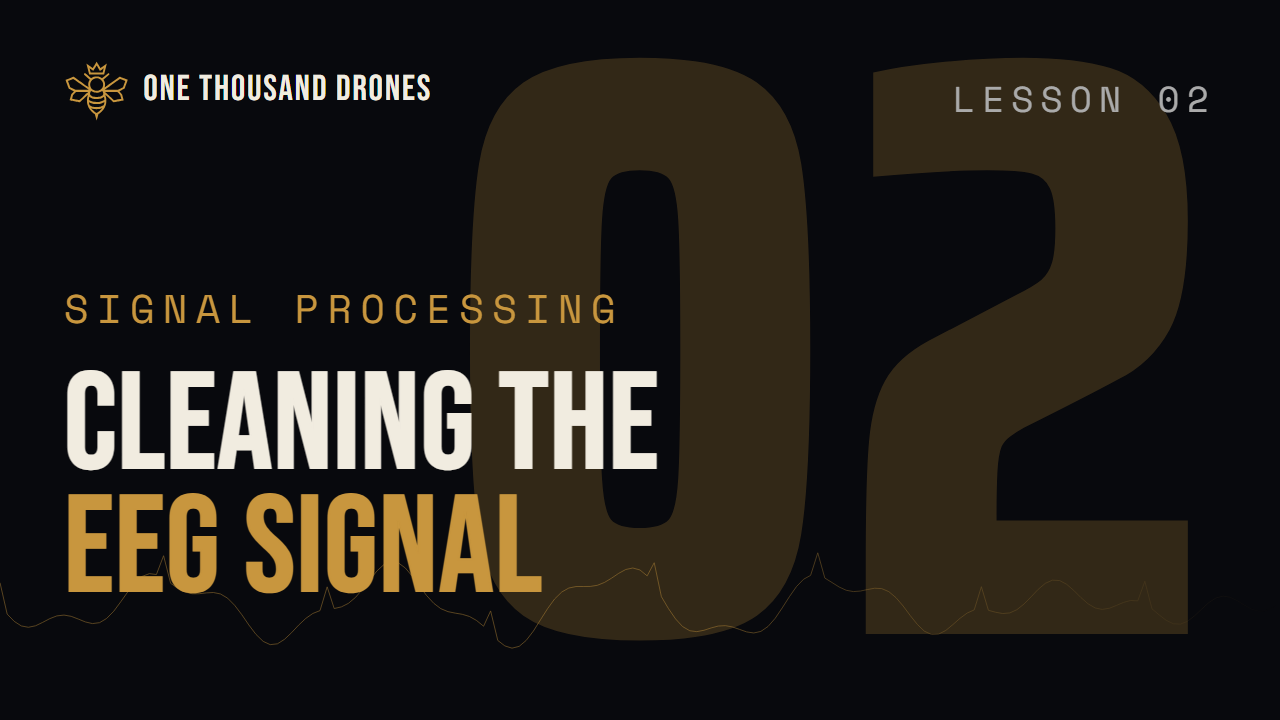
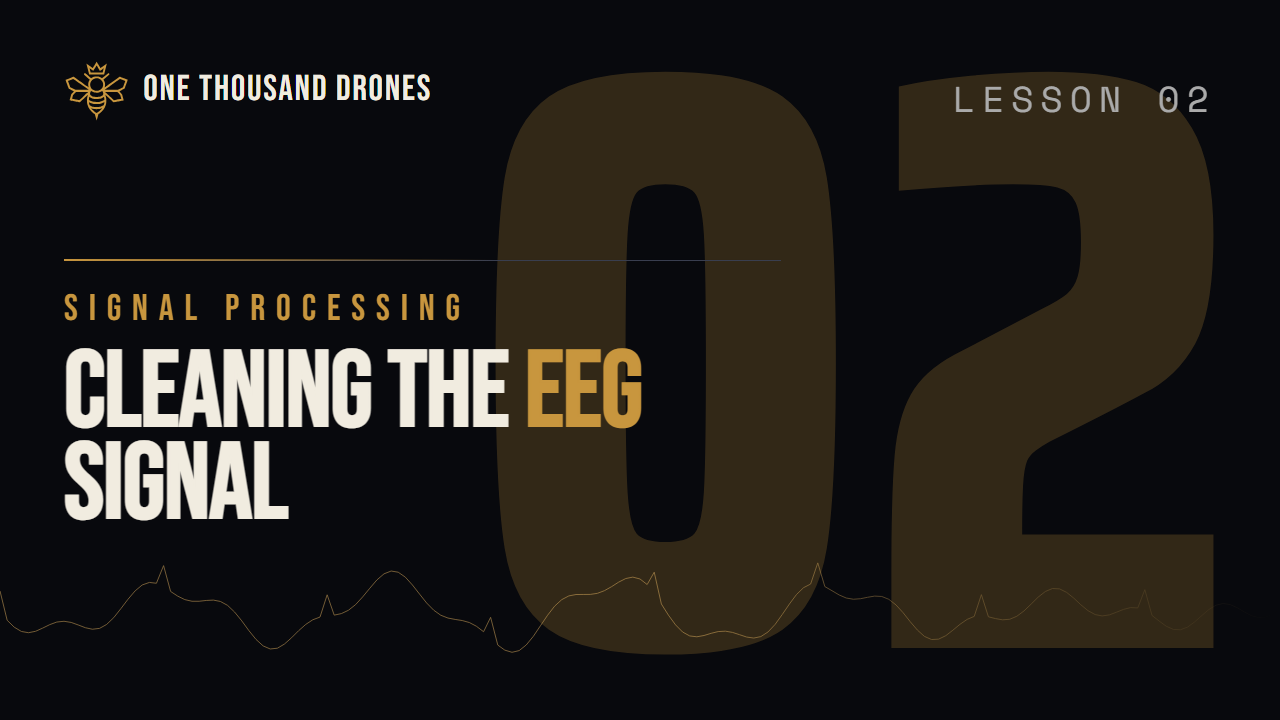
feat(brand): YouTube full-canvas channel art + academy-heading thumbnail
YouTube (2560x1440) now uses the full canvas via a new YouTubeArt component:
the academy-heading lockup in the safe band, a gold EEG channel + big bee across
the desktop band, and two signal-blue aux EEG channels in the TV-only bands
(multi-channel readout, TV view only) that fade like the main channel. Thumbnail
template rebuilt as the academy heading (gold rule, gold eyebrow tag, title with
ivory->gold alternation + hollow periods, giant faint number, EEG). Re-exported.

diff --git a/app/components/ThumbnailArt.tsx b/app/components/ThumbnailArt.tsx
@@ -1,15 +1,15 @@
-// Live YouTube-thumbnail template (the C8 layout): giant Saira episode number as
-// a bold backdrop, an EEG trace along the bottom, the ONE THOUSAND DRONES mark
-// top-left, a LESSON tag top-right, and the tag + two-line title lower-left. Swap
-// tag / num / title per video; the layout stays fixed so the channel reads as a
-// series. Same component that renders the media-kit preview and the export PNGs.
+// Live YouTube-thumbnail template — the academy-heading treatment (V1): gold
+// title-rule, a gold Bebas eyebrow (the tag), a big title with ivory→gold word
+// alternation + hollow .tdot periods, over a giant faint Saira episode number and
+// an EEG trace. Brand mark top-left, LESSON tag top-right. Swap tag / num / title
+// per video. Same component that renders the media-kit preview + export PNGs.
+import { Fragment } from 'react'
 import { BrandMark } from './BrandMark'
 
+const GOLD = '#c8963e', GOLDL = '#e8b865', BG = '#08090d', INK = '#f1ece0', MUT = '#aaaaaa', HAIR = '#3a3f50'
 const WORD = 'ONE THOUSAND DRONES'
-type Pal = { bg: string; ink: string; gold: string; goldD: string; muted: string }
-const DARK: Pal = { bg: '#08090d', ink: '#f1ece0', gold: '#c8963e', goldD: '#e8b865', muted: '#aaaaaa' }
-const IVORY: Pal = { bg: '#faf7f0', ink: '#14181f', gold: '#b5882e', goldD: '#8a6212', muted: '#6b7280' }
 const FILL = { position: 'absolute', inset: 0, width: '100%', height: '100%' } as const
+const FUNC = new Set(['a', 'an', 'the', 'to', 'of', 'and', 'or', 'for', 'in', 'on', 'at', 'by', 'as', 'it', 'is', 'with', 'from', 'into'])
 
 function wavePath() {
   const amp = 15, base = 50, freq = 0.2, N = 180
@@ -17,40 +17,46 @@ function wavePath() {
   for (let i = 0; i <= N; i++) { const x = (i * 100) / N, t = i * freq; let y = base + amp * Math.sin(t) * (0.5 + 0.5 * Math.sin(t * 0.11)) + amp * 0.3 * Math.sin(t * 2.7); if (i % 23 === 0) y -= amp * 0.65; d += `${i ? 'L' : 'M'}${x.toFixed(2)} ${y.toFixed(2)} ` }
   return d
 }
-
-export type ThumbnailProps = {
-  w?: number; h?: number; theme?: 'dark' | 'ivory'
-  tag: string; num: string; titleTop: string; titleAccent: string
+// content words alternate ivory→gold; periods rendered hollow (.tdot)
+function renderTitle(title: string, px: number) {
+  let c = 0
+  const dot: React.CSSProperties = { WebkitTextFillColor: 'transparent', WebkitTextStrokeWidth: `${px * 0.04}px`, WebkitTextStrokeColor: 'currentColor' }
+  const wrapDots = (s: string) => s.split(/(\.)/).map((p, j) => (p === '.' ? <span key={j} style={dot}>.</span> : <Fragment key={j}>{p}</Fragment>))
+  return title.split(/(\s+)/).map((tok, i) => {
+    if (tok.trim() === '') return <Fragment key={i}>{tok}</Fragment>
+    const m = tok.match(/^([^A-Za-z0-9]*)([A-Za-z0-9](?:.*[A-Za-z0-9])?)?([^A-Za-z0-9]*)$/)
+    const pre = m?.[1] ?? '', core = m?.[2] ?? '', post = m?.[3] ?? ''
+    const isFunc = FUNC.has(core.toLowerCase().replace(/[^a-z0-9]/g, ''))
+    const gold = core && !isFunc && ++c % 2 === 0
+    return <Fragment key={i}>{wrapDots(pre)}{core ? (gold ? <span style={{ color: GOLD }}>{core}</span> : core) : null}{wrapDots(post)}</Fragment>
+  })
 }
 
-/** The C8 thumbnail template at 16:9. `w`/`h` drive all sizing (default 1280×720). */
-export function ThumbnailArt({ w = 1280, h = 720, theme = 'dark', tag, num, titleTop, titleAccent }: ThumbnailProps) {
-  const p = theme === 'ivory' ? IVORY : DARK
+export type ThumbnailProps = { w?: number; h?: number; tag: string; num: string; title: string }
+
+/** The V1 thumbnail template at 16:9 (default 1280×720). Swap tag / num / title. */
+export function ThumbnailArt({ w = 1280, h = 720, tag, num, title }: ThumbnailProps) {
+  const titlePx = h * 0.15, ordPx = titlePx * 0.34, blockW = w * 0.56
   return (
-    <div style={{ position: 'relative', width: w, height: h, background: p.bg, overflow: 'hidden' }}>
+    <div style={{ position: 'relative', width: w, height: h, background: BG, overflow: 'hidden' }}>
       {/* giant number backdrop */}
-      <div style={{ position: 'absolute', right: w * 0.05, top: '48%', transform: 'translateY(-50%)' }}>
-        <span style={{ fontFamily: 'var(--font-numeral)', fontWeight: 800, fontSize: h * 1.15, lineHeight: 0.72, color: p.gold, opacity: 0.22, fontVariantNumeric: 'tabular-nums' }}>{num}</span>
+      <span aria-hidden style={{ position: 'absolute', right: w * 0.03, top: '50%', transform: 'translateY(-50%)', fontFamily: 'var(--font-numeral)', fontWeight: 800, fontSize: h * 1.15, color: GOLD, opacity: 0.22, lineHeight: 0.72, fontVariantNumeric: 'tabular-nums' }}>{num}</span>
+      {/* EEG bottom */}
+      <div aria-hidden style={{ position: 'absolute', left: 0, right: 0, bottom: 0, height: '30%', WebkitMaskImage: 'linear-gradient(to right,#000 55%,transparent 100%)', maskImage: 'linear-gradient(to right,#000 55%,transparent 100%)' }}>
+        <svg viewBox="0 0 100 100" preserveAspectRatio="none" style={FILL}><path d={wavePath()} fill="none" stroke={GOLDL} strokeWidth={0.8} opacity={0.6} vectorEffect="non-scaling-stroke" strokeLinejoin="round" /></svg>
       </div>
-      {/* EEG trace along the bottom */}
-      <div style={{ position: 'absolute', left: 0, right: 0, bottom: 0, height: '32%', WebkitMaskImage: 'linear-gradient(to right,#000 55%,transparent 100%)', maskImage: 'linear-gradient(to right,#000 55%,transparent 100%)' }}>
-        <svg viewBox="0 0 100 100" preserveAspectRatio="none" style={FILL}><path d={wavePath()} fill="none" stroke={p.gold} strokeWidth={0.7} opacity={0.6} vectorEffect="non-scaling-stroke" strokeLinejoin="round" /></svg>
-      </div>
-      {/* wordmark top-left */}
+      {/* brand top-left */}
       <div style={{ position: 'absolute', top: h * 0.08, left: w * 0.05, display: 'flex', alignItems: 'center', gap: h * 0.02 }}>
-        <div className="mk" style={{ width: h * 0.09, height: h * 0.09, color: p.gold }}><BrandMark /></div>
-        <span style={{ fontFamily: 'var(--font-display)', fontSize: h * 0.05, letterSpacing: '0.05em', color: p.ink }}>{WORD}</span>
+        <div className="mk" style={{ width: h * 0.09, height: h * 0.09, color: GOLD }}><BrandMark /></div>
+        <span style={{ fontFamily: 'var(--font-display)', fontSize: h * 0.05, letterSpacing: '0.05em', color: INK }}>{WORD}</span>
       </div>
       {/* lesson tag top-right */}
-      <div style={{ position: 'absolute', top: h * 0.1, right: w * 0.05 }}>
-        <span style={{ fontFamily: 'var(--font-mono)', fontSize: h * 0.05, letterSpacing: '0.2em', color: p.muted }}>LESSON {num}</span>
-      </div>
-      {/* tag + title lower-left */}
-      <div style={{ position: 'absolute', left: w * 0.05, bottom: h * 0.15, display: 'flex', flexDirection: 'column', gap: h * 0.04 }}>
-        <span style={{ fontFamily: 'var(--font-mono)', fontSize: h * 0.055, letterSpacing: '0.22em', textTransform: 'uppercase', color: theme === 'ivory' ? p.goldD : p.gold }}>{tag}</span>
-        <span style={{ fontFamily: 'var(--font-display)', fontSize: h * 0.19, lineHeight: 0.9, letterSpacing: '0.01em', color: p.ink, WebkitTextStroke: `${h * 0.19 * 0.014}px ${p.ink}` }}>
-          {titleTop}<br /><span style={{ color: p.gold, WebkitTextStroke: `${h * 0.19 * 0.014}px ${p.gold}` }}>{titleAccent}</span>
-        </span>
+      <span style={{ position: 'absolute', top: h * 0.1, right: w * 0.05, fontFamily: 'var(--font-mono)', fontSize: h * 0.05, letterSpacing: '0.2em', color: MUT }}>LESSON {num}</span>
+      {/* academy-heading lockup */}
+      <div style={{ position: 'absolute', left: w * 0.05, top: '52%', transform: 'translateY(-42%)', width: blockW, display: 'flex', flexDirection: 'column' }}>
+        <div style={{ position: 'relative', width: blockW, height: 1, background: HAIR, marginBottom: titlePx * 0.22 }}><div style={{ position: 'absolute', top: -1, left: 0, height: 2, width: '60%', background: `linear-gradient(90deg,${GOLD},transparent)` }} /></div>
+        <span style={{ fontFamily: 'var(--font-display)', fontSize: ordPx, letterSpacing: '0.3em', textTransform: 'uppercase', color: GOLD, marginBottom: titlePx * 0.14 }}>{tag}</span>
+        <span style={{ fontFamily: 'var(--font-display)', fontSize: titlePx, color: INK, lineHeight: 0.85, letterSpacing: '-0.01em', textTransform: 'uppercase', WebkitTextStroke: `${titlePx * 0.02}px currentColor`, textAlign: 'left' }}>{renderTitle(title, titlePx)}</span>
       </div>
     </div>
   )

diff --git a/app/components/YouTubeArt.tsx b/app/components/YouTubeArt.tsx
@@ -1,0 +1,51 @@
+// Live YouTube channel art (2560×1440) using the full canvas. The academy-heading
+// lockup sits in the safe band (1546×423); the main gold EEG channel + big bee
+// span the desktop band; two signal-blue aux EEG channels fill the TV-only bands
+// above/below (multi-channel readout, TV view only). All channels fade like the
+// main. Same component that produces the exported PNG (no drift).
+import { BrandMark } from './BrandMark'
+
+const GOLD = '#c8963e', GOLDL = '#e8b865', BLUE = '#4a8fff', BG = '#08090d', INK = '#f1ece0', HAIR = '#3a3f50'
+const FILL = { position: 'absolute', inset: 0, width: '100%', height: '100%' } as const
+
+function wavePath(phase: number) {
+  const amp = 15, base = 50, freq = 0.2, N = 220
+  let d = ''
+  for (let i = 0; i <= N; i++) { const x = (i * 100) / N, t = i * freq + phase; let y = base + amp * Math.sin(t) * (0.5 + 0.5 * Math.sin(t * 0.11)) + amp * 0.3 * Math.sin(t * 2.7); if (i % 23 === 0) y -= amp * 0.65; d += `${i ? 'L' : 'M'}${x.toFixed(2)} ${y.toFixed(2)} ` }
+  return d
+}
+function Channel({ color, op, phase, wpx }: { color: string; op: number; phase: number; wpx: number }) {
+  return <svg viewBox="0 0 100 100" preserveAspectRatio="none" style={FILL}><path d={wavePath(phase)} fill="none" stroke={color} strokeWidth={wpx} opacity={op} vectorEffect="non-scaling-stroke" strokeLinejoin="round" /></svg>
+}
+
+export function YouTubeArt({ w = 2560, h = 1440 }: { w?: number; h?: number }) {
+  const bandH = (h * 423) / 1440, bandTop = (h - bandH) / 2
+  const safeW = (w * 1546) / 2560
+  const blockW = safeW * 0.62
+  const blockLeft = (w - blockW) / 2 - safeW * 0.02
+  const heroPx = Math.min(bandH * 0.4, blockW / 6.1)
+  const ordPx = heroPx * 0.34
+  const beeH = h * 0.92, beeCx = w * 0.72
+  const eegRight = blockLeft
+  const auxPad = bandTop * 0.16
+  const auxFade = { WebkitMaskImage: 'linear-gradient(to right,#000 45%,transparent 72%)', maskImage: 'linear-gradient(to right,#000 45%,transparent 72%)' } as const
+  const mainFade = { WebkitMaskImage: `linear-gradient(to right,#000 ${(eegRight / w) * 100 - 10}%,transparent ${(eegRight / w) * 100}%)`, maskImage: `linear-gradient(to right,#000 ${(eegRight / w) * 100 - 10}%,transparent ${(eegRight / w) * 100}%)` } as const
+  const dot: React.CSSProperties = { WebkitTextFillColor: 'transparent', WebkitTextStrokeWidth: `${heroPx * 0.04}px`, WebkitTextStrokeColor: 'currentColor' }
+  return (
+    <div style={{ position: 'relative', width: w, height: h, background: BG, overflow: 'hidden' }}>
+      {/* aux EEG channels — TV-only bands */}
+      <div aria-hidden style={{ position: 'absolute', left: 0, right: 0, top: auxPad, height: bandTop - auxPad * 1.6, zIndex: 1, ...auxFade }}><Channel color={BLUE} op={0.4} phase={2.1} wpx={1.3} /></div>
+      <div aria-hidden style={{ position: 'absolute', left: 0, right: 0, top: bandTop + bandH + auxPad * 0.6, height: bandTop - auxPad * 1.6, zIndex: 1, ...auxFade }}><Channel color={BLUE} op={0.4} phase={4.3} wpx={1.3} /></div>
+      {/* big bee */}
+      <div aria-hidden className="mk" style={{ position: 'absolute', left: beeCx - beeH / 2, top: '50%', transform: 'translateY(-50%)', width: beeH, height: beeH, color: GOLD, opacity: 0.22, zIndex: 1 }}><BrandMark /></div>
+      {/* main channel */}
+      <div style={{ position: 'absolute', left: 0, right: 0, top: bandTop, height: bandH, zIndex: 2, ...mainFade }}><Channel color={GOLDL} op={1} phase={0} wpx={1.6} /></div>
+      {/* lockup */}
+      <div style={{ position: 'absolute', left: blockLeft, top: bandTop, height: bandH, width: blockW, zIndex: 3, display: 'flex', flexDirection: 'column', justifyContent: 'center' }}>
+        <div style={{ position: 'relative', width: blockW, height: 1, background: HAIR, marginBottom: heroPx * 0.22 }}><div style={{ position: 'absolute', top: -1, left: 0, height: 2, width: '60%', background: `linear-gradient(90deg,${GOLD},transparent)` }} /></div>
+        <span style={{ fontFamily: 'var(--font-display)', fontSize: ordPx, letterSpacing: '0.3em', textTransform: 'uppercase', color: GOLD, marginBottom: heroPx * 0.14 }}>ONE THOUSAND DRONES</span>
+        <span style={{ fontFamily: 'var(--font-display)', fontSize: heroPx, color: INK, lineHeight: 0.82, letterSpacing: '-0.01em', textTransform: 'uppercase', WebkitTextStroke: `${heroPx * 0.02}px currentColor` }}>ONE <span style={{ color: GOLD }}>MIND</span><span style={dot}>.</span><br />MANY <span style={{ color: GOLD }}>MACHINES</span><span style={dot}>.</span></span>
+      </div>
+    </div>
+  )
+}

diff --git a/app/brand/page.tsx b/app/brand/page.tsx
@@ -79,7 +79,6 @@ const ASSETS: { n: string; d: string; f: string }[] = [
   { n: 'YouTube thumbnail · sample 01', d: '1280 × 720', f: 'otd-thumbnail-lesson-01.png' },
   { n: 'YouTube thumbnail · sample 02', d: '1280 × 720', f: 'otd-thumbnail-lesson-02.png' },
   { n: 'YouTube thumbnail · sample 05', d: '1280 × 720', f: 'otd-thumbnail-lesson-05.png' },
-  { n: 'YouTube thumbnail · sample (ivory)', d: '1280 × 720', f: 'otd-thumbnail-lesson-03-ivory.png' },
   { n: 'LinkedIn Life-tab hero', d: '1128 × 376', f: 'otd-linkedin-life-1128x376.png' },
   { n: 'YouTube watermark (transparent)', d: '800 × 800', f: 'otd-youtube-watermark-800.png' },
   { n: 'YouTube watermark (transparent)', d: '300 × 300', f: 'otd-youtube-watermark-300.png' },
@@ -596,7 +595,7 @@ export default function BrandPage() {
         <div className="mk-wrap" style={{ marginTop: '0.8rem' }}><BannerArt w={920} h={Math.round((920 * 400) / 1280)} theme="ivory" /></div>
         <h3 className="asys-cap" style={{ marginTop: '2.4rem' }}>YouTube thumbnail template</h3>
         <p className="lead" style={{ marginTop: '0.6rem' }}>A parametrized series template: the giant Saira episode number sits as a bold backdrop, an EEG trace runs the base, and the mark plus a lesson tag frame a two-line title. Swap the tag, number, and title per video and the channel still reads as one set.</p>
-        <div className="mk-wrap" style={{ marginTop: '1.2rem' }}><ThumbnailArt w={640} h={360} tag="Neural interfaces" num="01" titleTop="Motor imagery," titleAccent="decoded" /></div>
+        <div className="mk-wrap" style={{ marginTop: '1.2rem' }}><ThumbnailArt w={640} h={360} tag="Neural interfaces" num="01" title="Motor imagery, decoded" /></div>
         <h3 className="asys-cap" style={{ marginTop: '2.4rem' }}>Downloads</h3>
         <table className="table-tech">
           <thead><tr><th>Asset</th><th>Dimensions</th><th>File</th></tr></thead>
